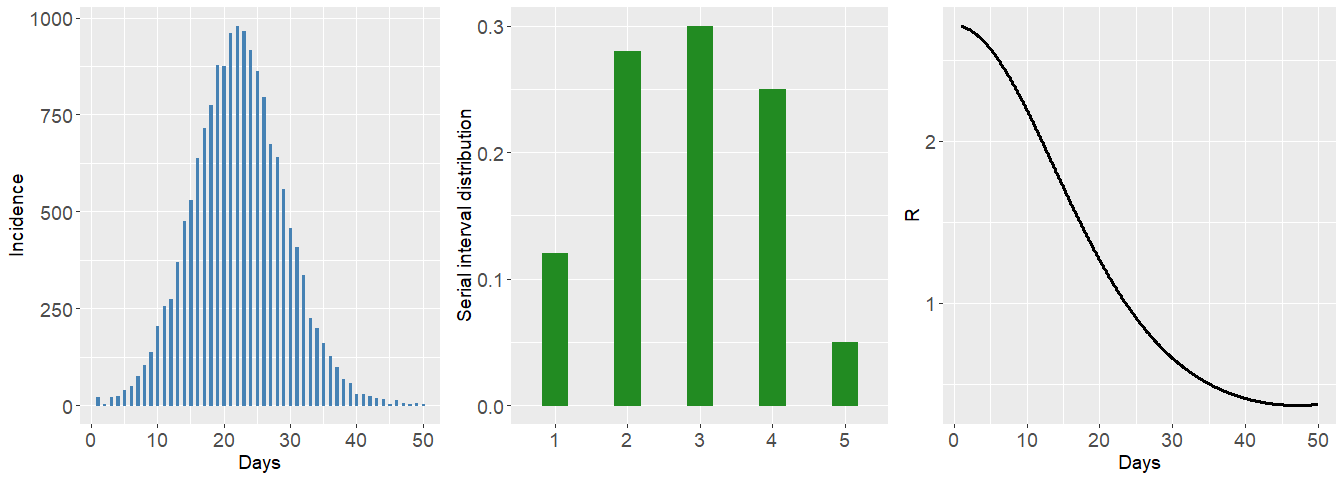
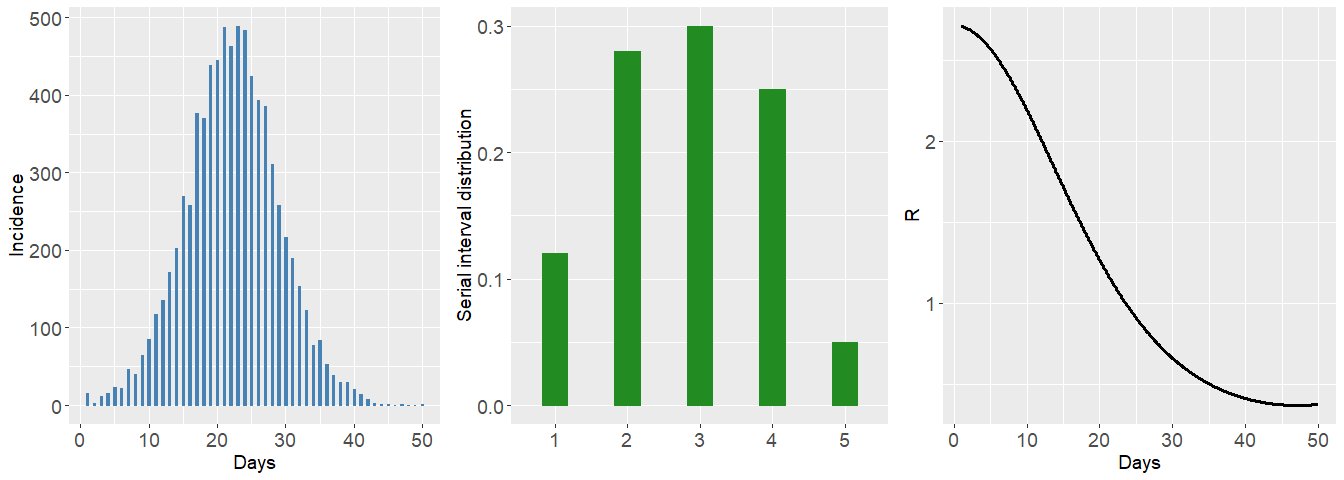
Update 2021-19-12

diff --git a/README.md b/README.md
@@ -77,8 +77,8 @@ install Rtools to include the required compilers for a smooth
 experience. Rtools is free and can be downloaded from
 <https://cran.r-project.org/bin/windows/Rtools/>. To install the Github
 version of EpiLPS (with
-[devtools](https://cran.r-project.org/web/packages/devtools/index.html))
-type the following lines in the R console:
+[devtools](https://cran.r-project.org/package=devtools)) type the
+following lines in the R console:
 
 ``` r
 install.packages("devtools")
@@ -127,9 +127,9 @@ The simulated incidence count data can be accessed by typing:
 simepi$y
 ```
 
-    ##  [1]  21   3  21  23  40  50  75 104 137 203 256 273 370 475 530 637 715 775 878
-    ## [20] 876 961 979 965 916 861 794 673 640 558 456 407 335 224 200 161 127  99  68
-    ## [39]  58  29  28  22  17  16   2  13   6   3   4   2
+    ##  [1]  16   3  12  16  23  22  46  40  65  85 117 135 171 202 270 258 376 370 438
+    ## [20] 445 487 463 489 484 424 393 385 311 258 217 190 154 122  77  84  53  39  30
+    ## [39]  30  20  14   8   3   1   1   0   1   0   0   1
 
 The `epilps()` routine can be used to fit the epidemic data. By default,
 the LPSMAP approach is used with 30 B-splines in the interval \[1; 50\]
@@ -142,9 +142,9 @@ epifit_LPSMAP <- epilps(incidence = simepi$y, serial_interval = si, tictoc = TRU
 
     ## Inference method chosen: LPSMAP. 
     ## Total number of days: 50. 
-    ## Mean R(t) discarding first 7 days: 0.981.
-    ## Mean 95% CI of R(t) discarding first 7 days: (0.797,1.213) 
-    ## Elapsed real time (wall clock time): 0.18 seconds.
+    ## Mean R(t) discarding first 7 days: 0.923.
+    ## Mean 95% CI of R(t) discarding first 7 days: (0.733,1.189) 
+    ## Elapsed real time (wall clock time): 0.2 seconds.
 
 ``` r
 plot(epifit_LPSMAP)
@@ -179,13 +179,13 @@ knitr::kable(epifit_LPSMAP$epifit[8:14,2:4])
 
 |     | R\_estim | R95CI\_low | R95CI\_up |
 |:----|---------:|-----------:|----------:|
-| 8   | 2.472125 |   2.023652 |  3.019986 |
-| 9   | 2.408593 |   1.991535 |  2.912988 |
-| 10  | 2.288085 |   1.893201 |  2.765335 |
-| 11  | 2.135567 |   1.777528 |  2.565725 |
-| 12  | 1.988093 |   1.650414 |  2.394863 |
-| 13  | 1.867220 |   1.557544 |  2.238467 |
-| 14  | 1.768164 |   1.471829 |  2.124164 |
+| 8   | 2.126634 |   1.686648 |  2.681395 |
+| 9   | 2.145223 |   1.723953 |  2.669436 |
+| 10  | 2.125272 |   1.715061 |  2.633598 |
+| 11  | 2.067192 |   1.684601 |  2.536674 |
+| 12  | 1.982662 |   1.613981 |  2.435560 |
+| 13  | 1.886721 |   1.546237 |  2.302180 |
+| 14  | 1.794323 |   1.469596 |  2.190803 |
 
 A smooth estimate of the epidemic curve can be obtained with the code
 below. The option `epicol` controls the color of the curve and
